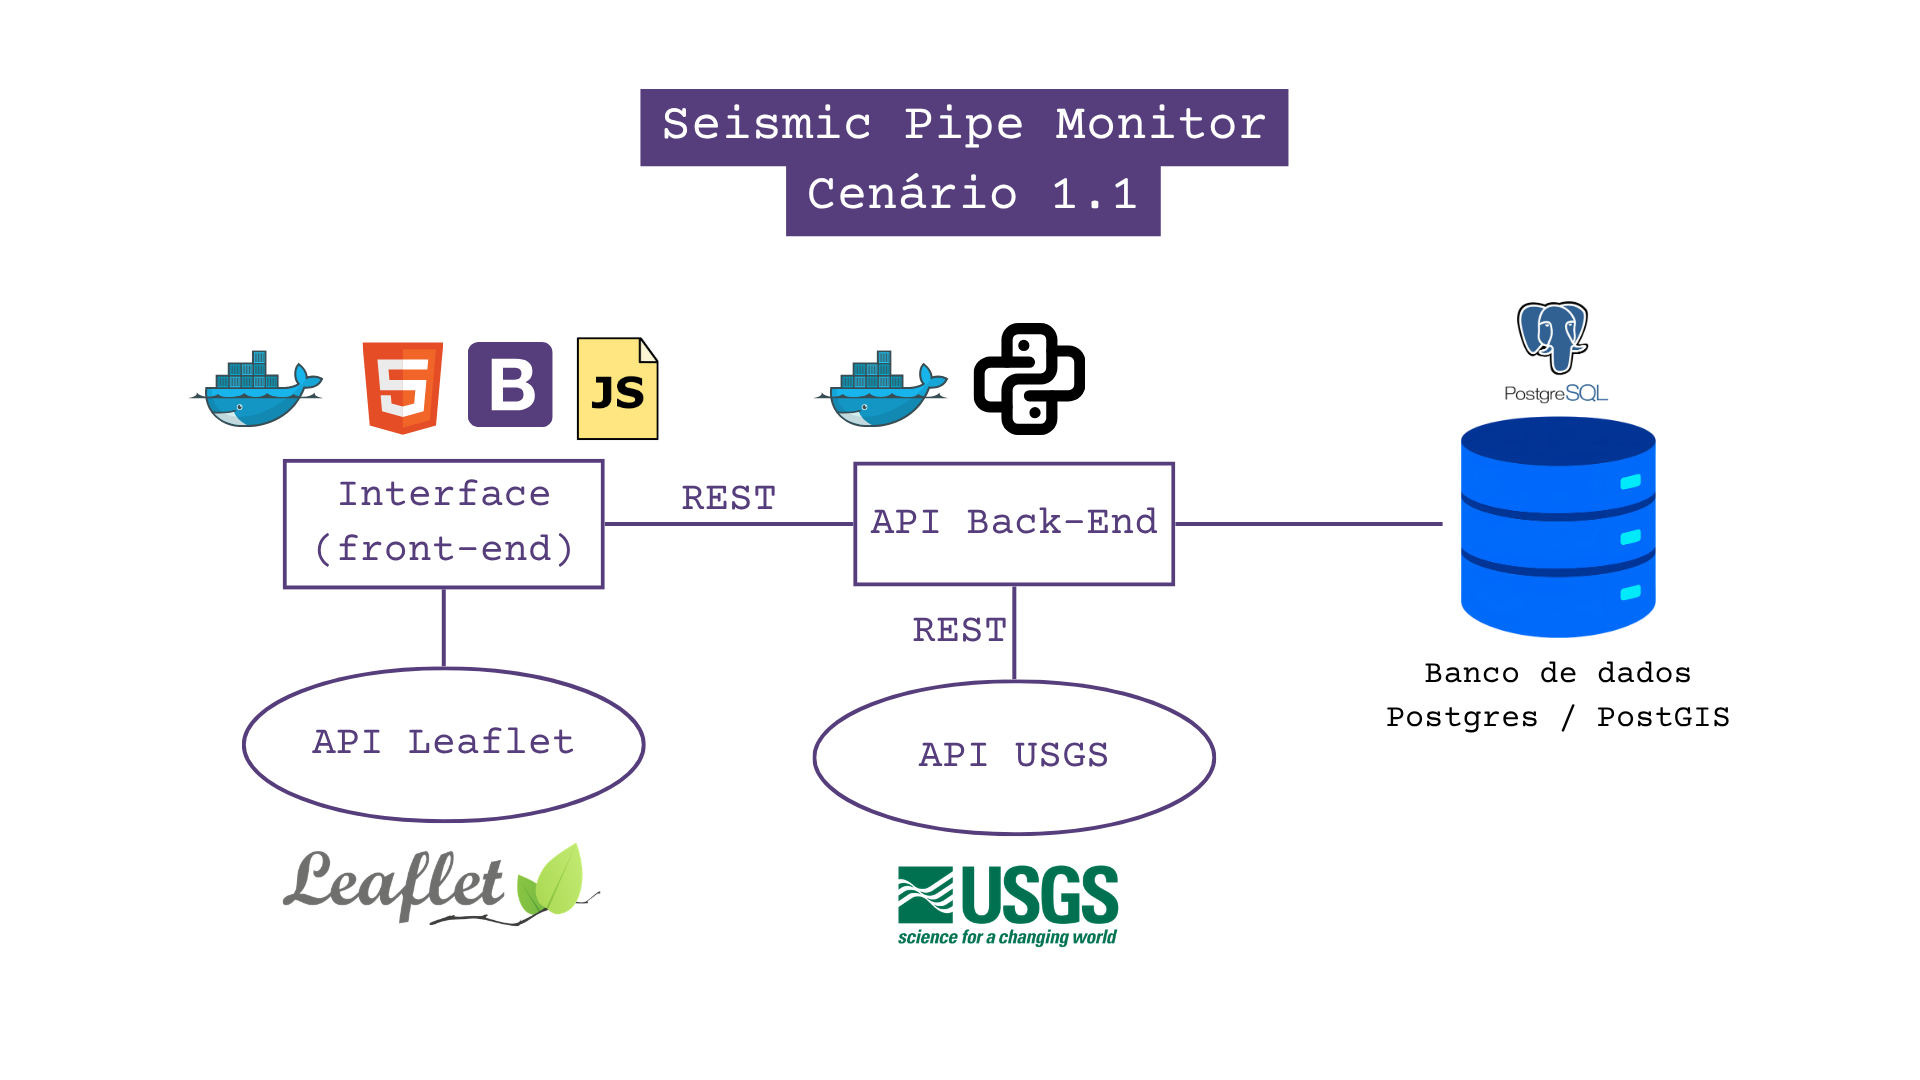
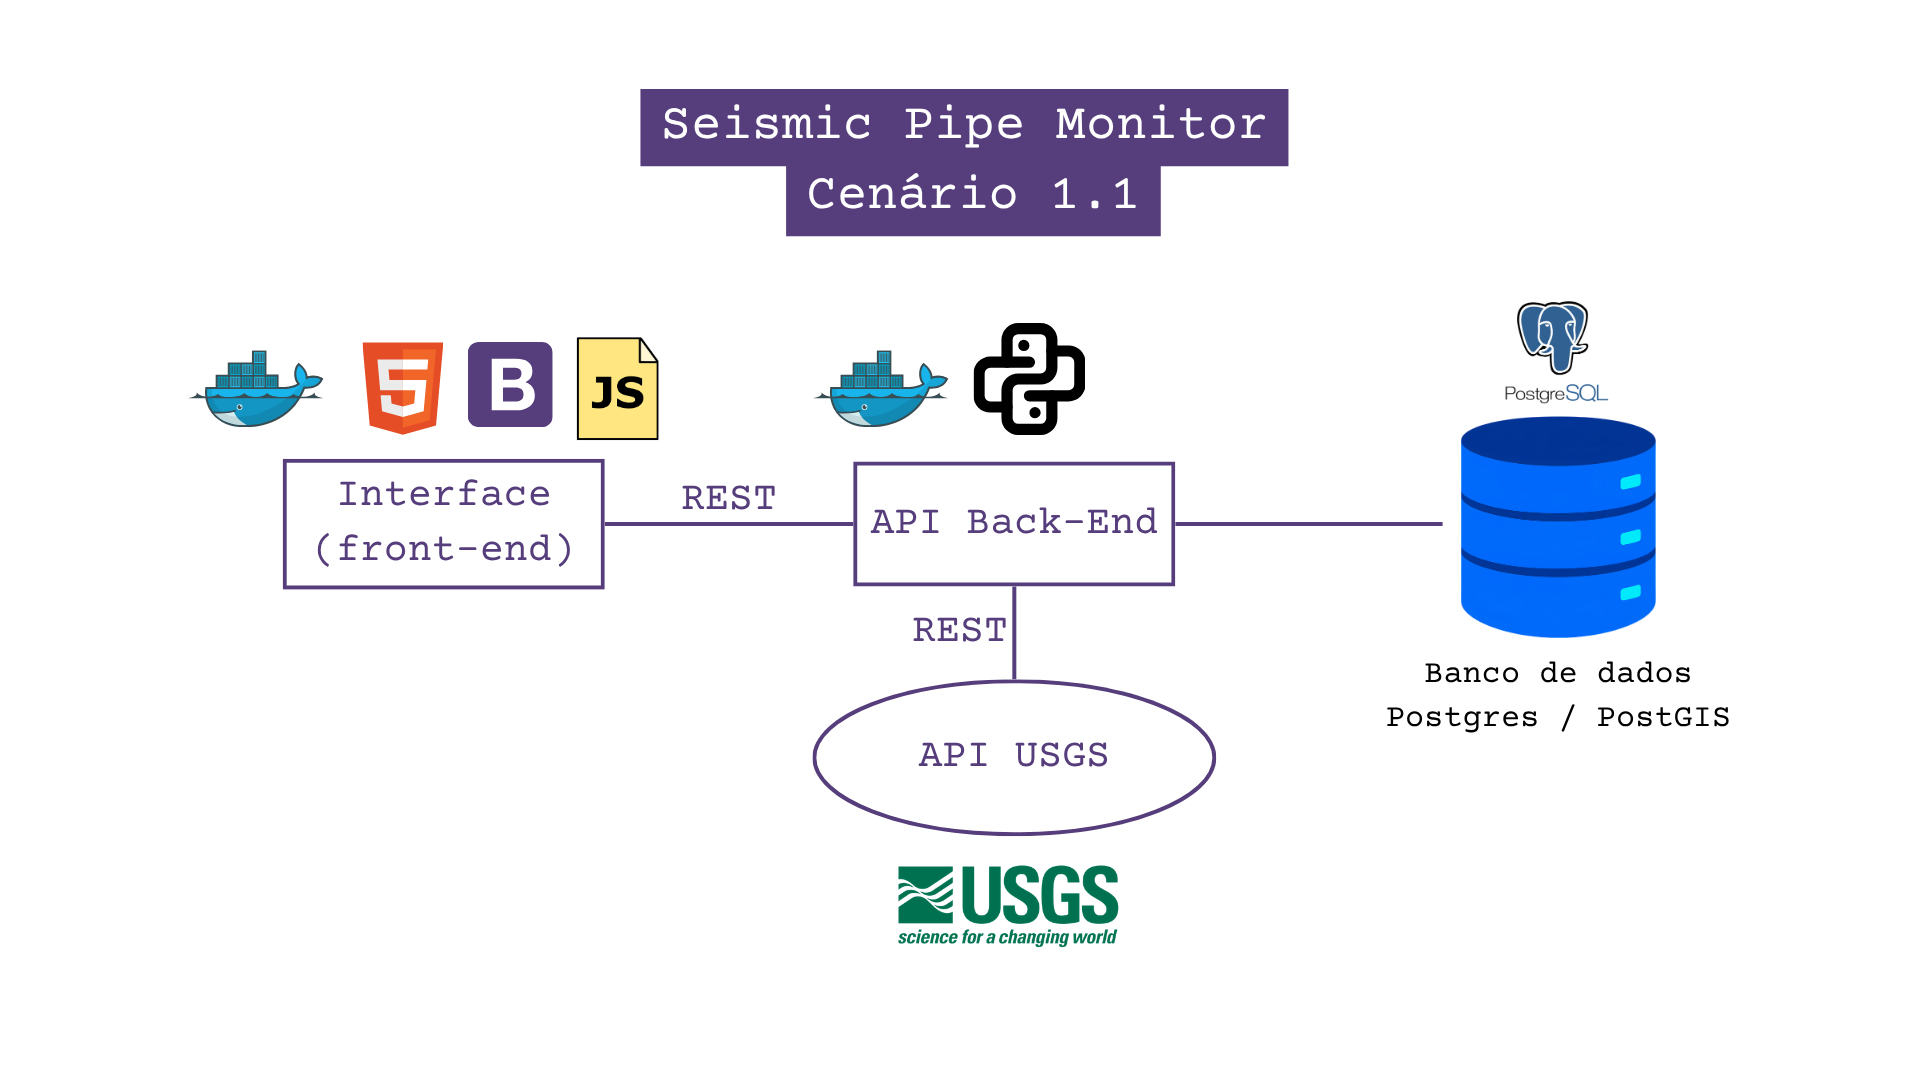
read-me ready

diff --git a/README.md b/README.md
@@ -17,6 +17,12 @@ Com esta interface, o usuário é capaz de:
 ## Arquitetura do Seismic Pipe Monitor
 ![Arquitetura do Seismic Pipe Monitor](/img/Seismic-pipe-monitor-arquitetura.png)
 
+
+A API Seismic Pipe Monitor conecta com a API externa pública da [USGS](https://earthquake.usgs.gov/fdsnws/event/1/) (United States Geological Survey) para obter informações sobre terremotos.
+![Arquitetura do Seismic Pipe Monitor](/img/img20.png)
+
+Com esta API a requisição HTTP é tipo GET e recebe parâmetros como: magnitude mínima igual a 2.0, data do terremoto até 15 días antes da requisição, latitude, longitude e máximo raio em km.
+
 ---
 
 ## Instalação
